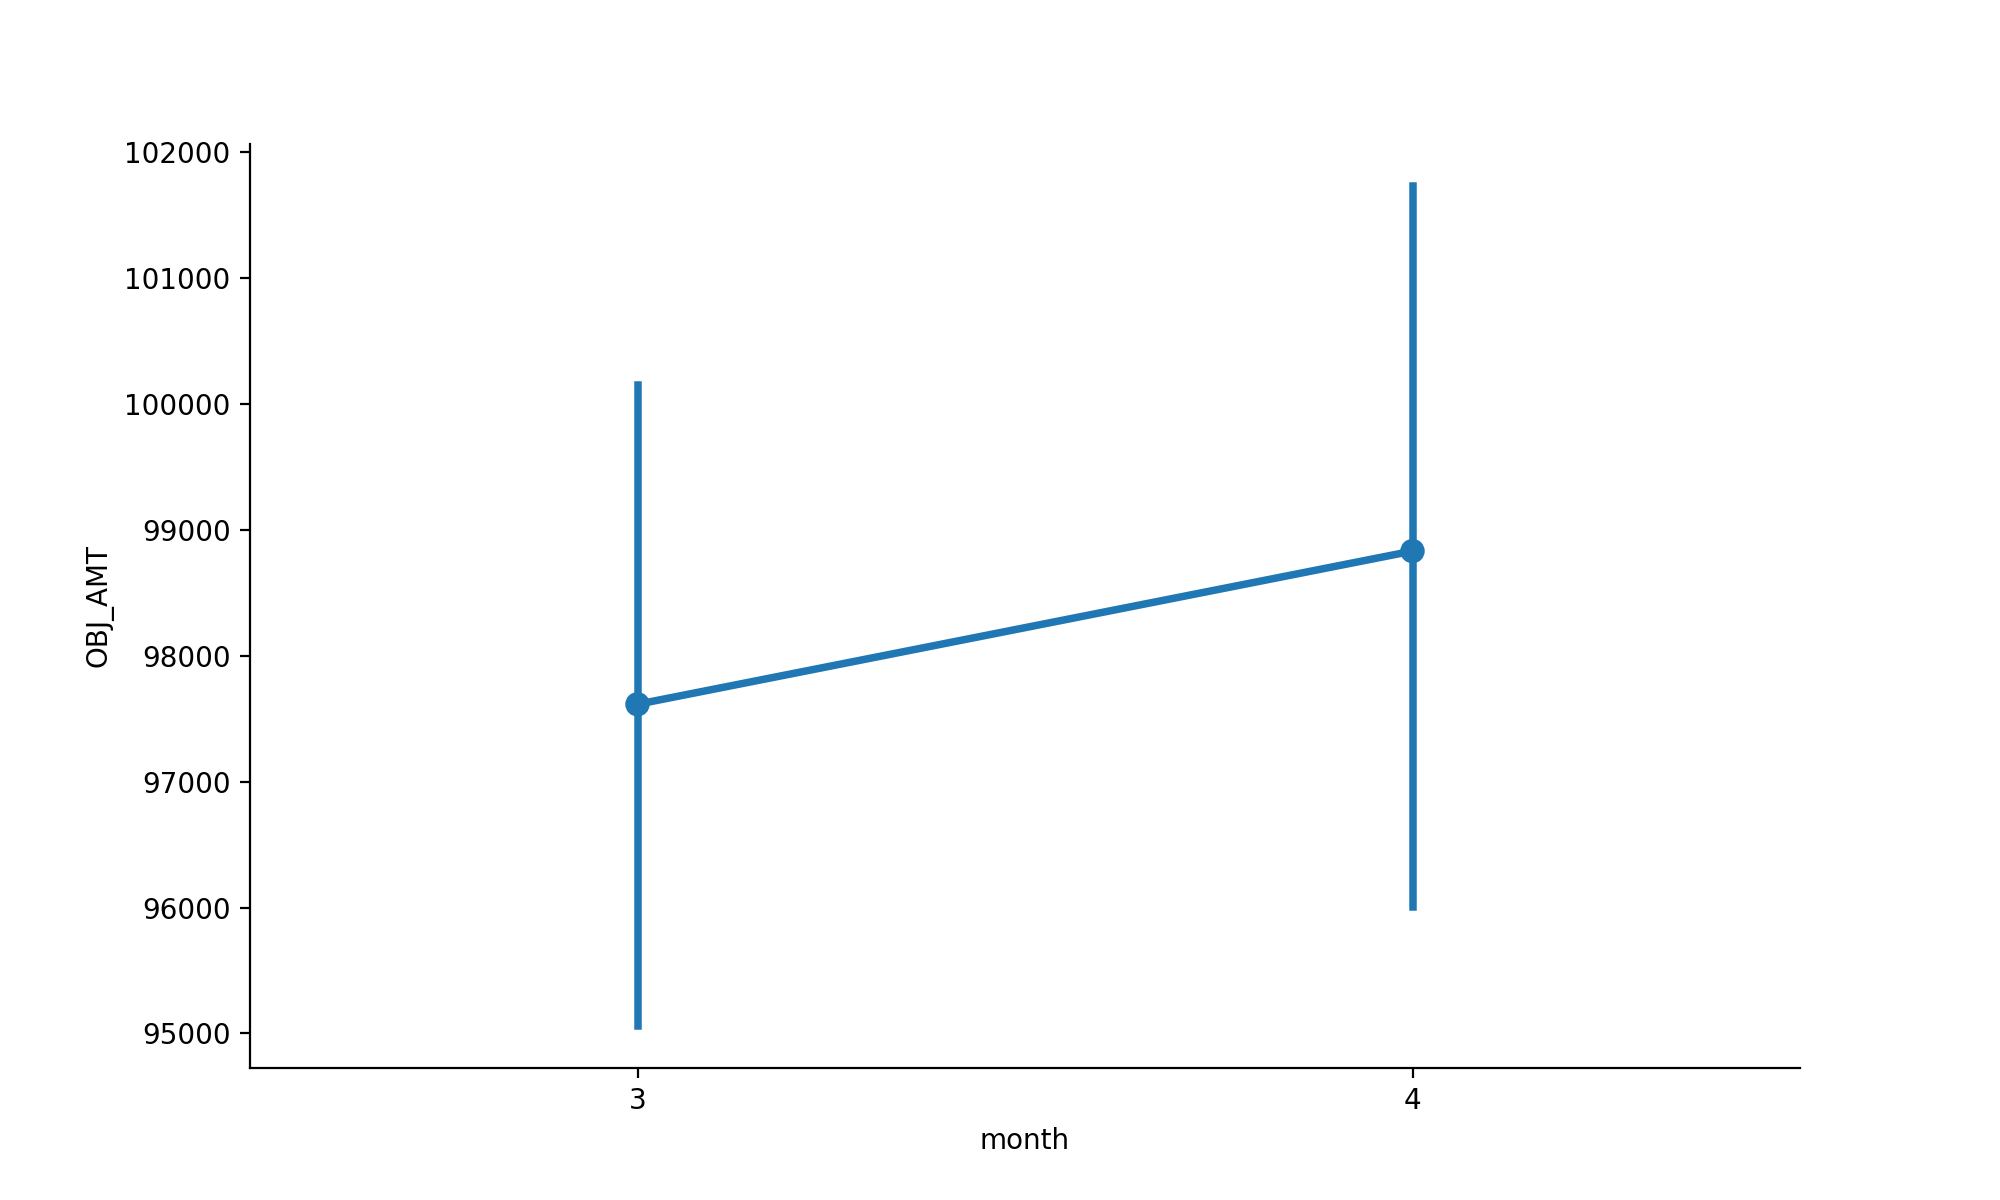
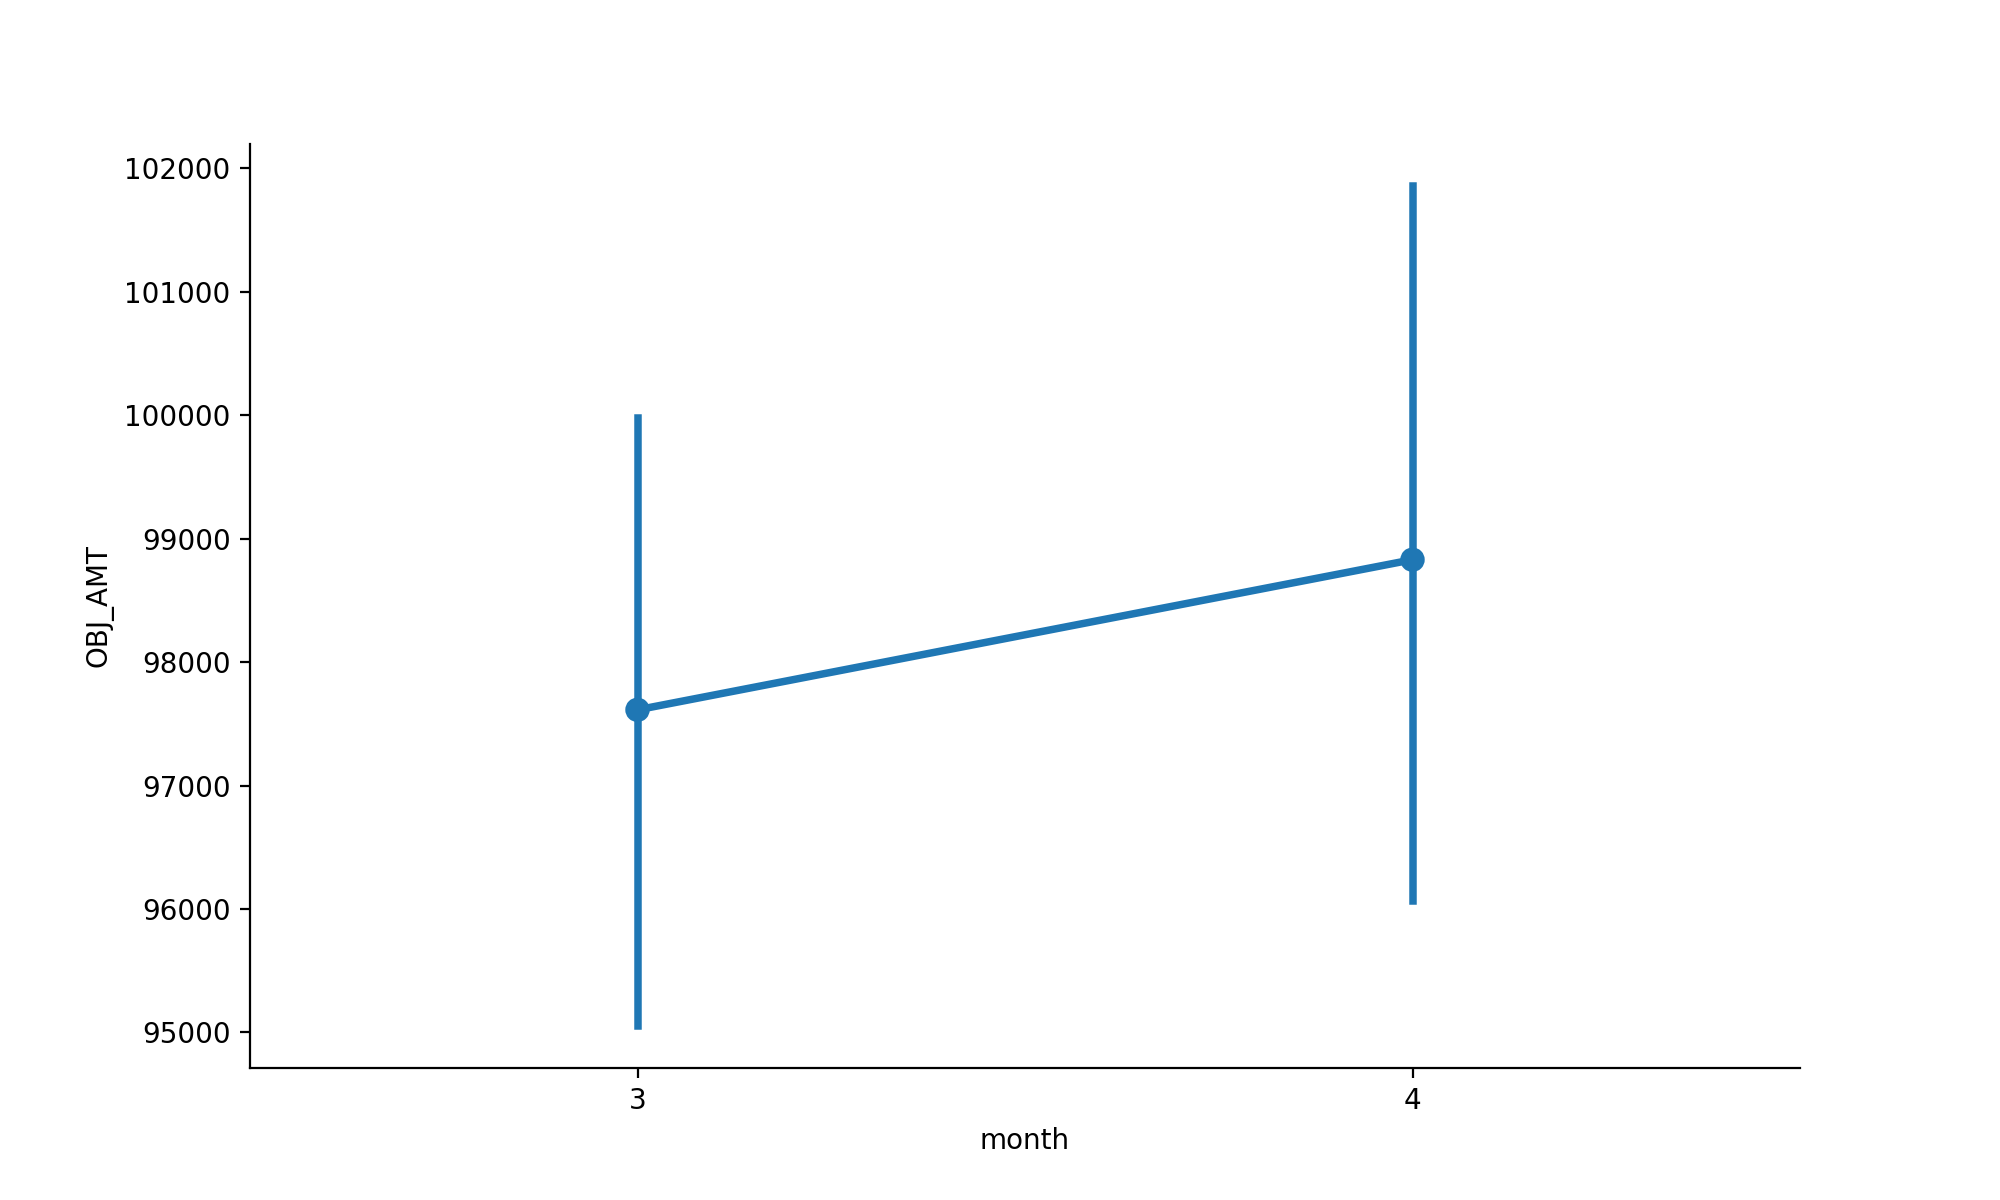
updated

diff --git a/ch07/eda/stat.py b/ch07/eda/stat.py
@@ -1,0 +1,81 @@
+# -*- coding:utf-8 -*-
+import pandas as pd
+import numpy as np
+
+import pingouin as pg
+import streamlit
+from pingouin import ttest
+
+import seaborn as sns
+import matplotlib.pyplot as plt
+
+import streamlit as st
+
+def twoMeans(total_df):
+    total_df['month'] = total_df['DEAL_YMD'].dt.month
+    apt_df = total_df[(total_df['HOUSE_TYPE'] == '아파트') & (total_df['month'].isin([3, 4]))]
+    st.markdown("### 집계 \n"
+                "- 3월과 4월의 아파트 가격을 비교한다.")
+    ttest_df = round(apt_df.groupby('month')['OBJ_AMT'].agg(["mean", "std", "size"]), 1)
+    st.dataframe(ttest_df, use_container_width=True)
+
+    st.markdown("###  서울시 통합 3월 vs 4월 차이 검정\n"
+                "- 3월과 4월의 아파트 평균 가격의 차이를 검정한다. \n"
+                "- 가설설정 \n"
+                "   + 귀무가설 : $H_{0}$: 3월과 4월의 아파트 평균 차이는 없다. \n"
+                "   + 대립가설 : $H_{0}$: 3월과 4월의 아파트 평균 차이는 있다. \n")
+
+    march_df = apt_df[apt_df['month'] == 3]
+    april_df = apt_df[apt_df['month'] == 4]
+    result = ttest(march_df['OBJ_AMT'], april_df['OBJ_AMT'], paired=False)
+    st.dataframe(result, use_container_width=True)
+    st.markdown(f"- 확인결과 p-value 값이 {result['p-val'].values[0]} 이므로 $H_{0}$을 채택하여, 3월과 4월의 아파트 평균 차이는 없다.")
+
+    selected_sgg_nm = st.sidebar.selectbox("자치구명", sorted(total_df['SGG_NM'].unique()))
+    st.markdown(f"### 서울시 {selected_sgg_nm} 3월 vs 4월 차이 검정\n"
+                "- 자치구를 선택하여 3월과 4월의 아파트 평균 차이가 있는지 확인하도록 한다.")
+
+    sgg_df = apt_df[apt_df['SGG_NM'] == selected_sgg_nm]
+    sgg_march_df = sgg_df[sgg_df['month'] == 3]
+    sgg_april_df = sgg_df[sgg_df['month'] == 4]
+    sgg_result = ttest(sgg_march_df['OBJ_AMT'], sgg_april_df['OBJ_AMT'], paired=False)
+    st.dataframe(sgg_result, use_container_width=True)
+    if sgg_result['p-val'].values[0] > 0.05:
+        st.markdown(f"- 확인결과 p-value 값이 {result['p-val'].values[0]} 이므로 $H_{0}$을 채택하여, 3월과 4월의 아파트 평균 차이는 없다.")
+    else:
+        st.markdown(f"- 확인결과 p-value 값이 {result['p-val'].values[0]} 이므로 $H_{1}$을 채택하여, 3월과 4월의 아파트 평균 차이는 있다.")
+
+    st.markdown(f"### 서울시 :blue[{selected_sgg_nm}] 3월 vs 4월 시각화", unsafe_allow_html=True)
+    fig, ax = plt.subplots(figsize=(10, 6))
+    sns.pointplot(x='month', y='OBJ_AMT', data=sgg_df)
+    sns.despine()
+    st.pyplot(fig)
+    st.dataframe(round(sgg_df.groupby('month')['OBJ_AMT'].agg(["mean", "std", "size"]), 1), use_container_width=True)
+
+
+
+
+
+def showStat(total_df):
+    total_df['DEAL_YMD'] = pd.to_datetime(total_df['DEAL_YMD'], format="%Y-%m-%d")
+    selected = st.sidebar.selectbox("분석 메뉴", ['두 집단간 차이 검정', '상관분석', '회귀분석'])
+    if selected == '두 집단간 차이 검정':
+        st.markdown("### 두 집단간 차이 검정 이론 설명 \n"
+                    "- t-검정은 두 개의 독립적인 데이터 샘플의 평균 간에 유의미한 차이가 있는지 확인하는 데 사용할 수 있는 통계 테스트입니다. \n"
+                    "- 추가 설명")
+        st.markdown("t-통계량을 구하는 것은 아래와 같습니다.")
+        st.latex(r'''
+        t = \frac{{\bar{X} - \mu}}{{s/\sqrt{n}}}
+        ''')
+        st.markdown("- $\={X}$ : 표본의 평균을 말합니다. \n"
+                    "- LaTeX expressions, by wrapping them in `$` or `$$` (the `$$` must be on their own lines). Supported LaTeX functions are listed at https://katex.org/docs/supported.html. \n"
+                    "- 나머지를 추가해보세요.. ")
+
+        twoMeans(total_df)
+
+
+
+    elif selected == '상관분석':
+        st.markdown("### 상관분석 이론 설명")
+    elif selected == "회귀분석":
+        st.markdown("### 회귀분석 이론 설명")

diff --git a/ch07/eda/eda_home.py b/ch07/eda/eda_home.py
@@ -3,6 +3,7 @@ import streamlit as st
 import pandas as pd
 from streamlit_option_menu import option_menu
 from eda.viz import showViz
+from eda.stat import showStat
 
 def home():
     st.markdown("### Visualization 개요 \n"
@@ -38,7 +39,7 @@ def run_eda(total_df):
     elif selected == 'Visualization':
         showViz(total_df)
     elif selected == 'Statistics':
-        pass
+        showStat(total_df)
     elif selected == 'Map':
         pass
     else:
